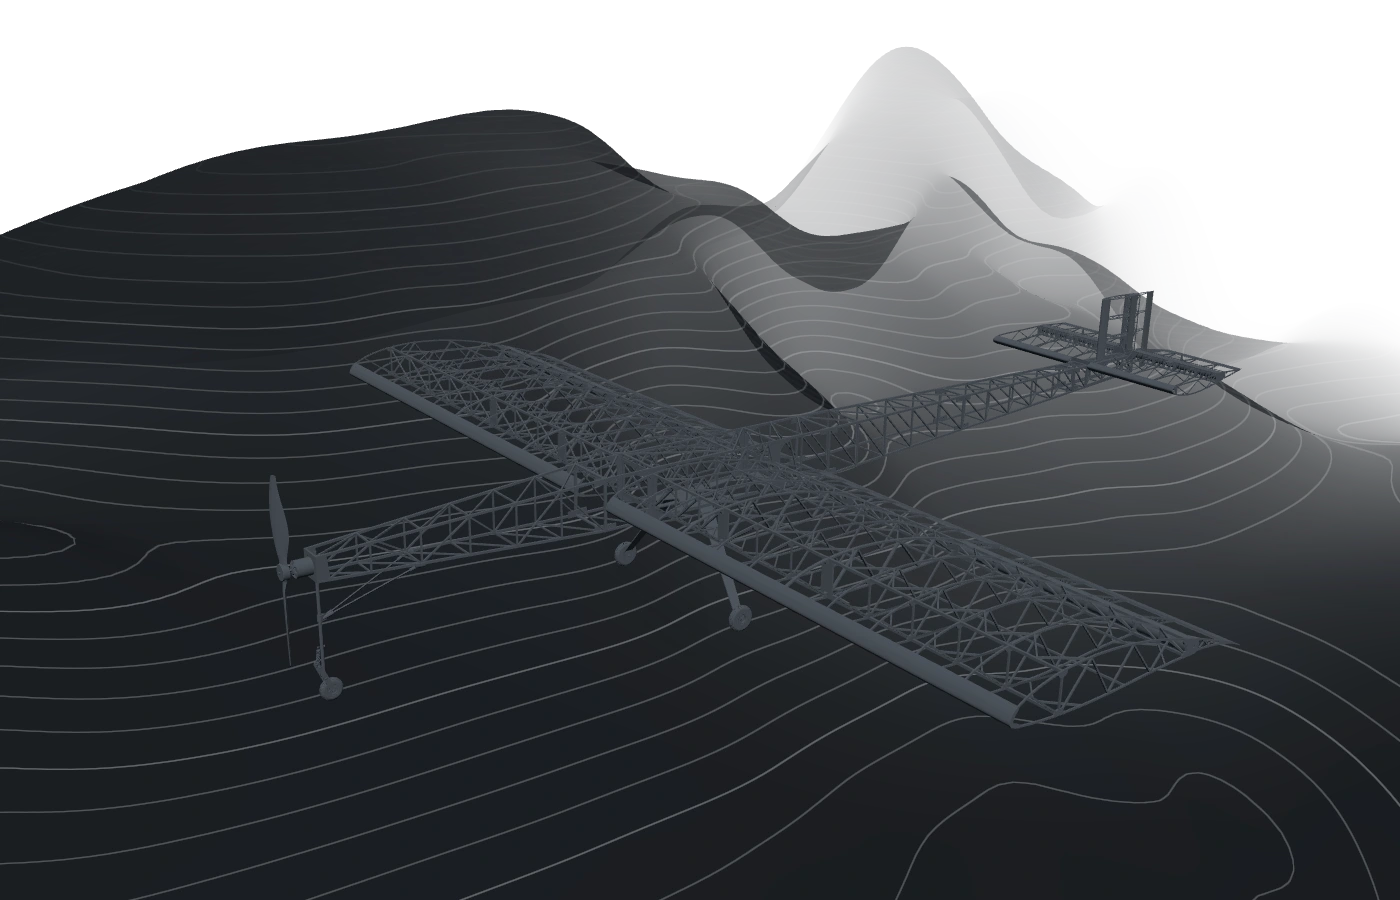
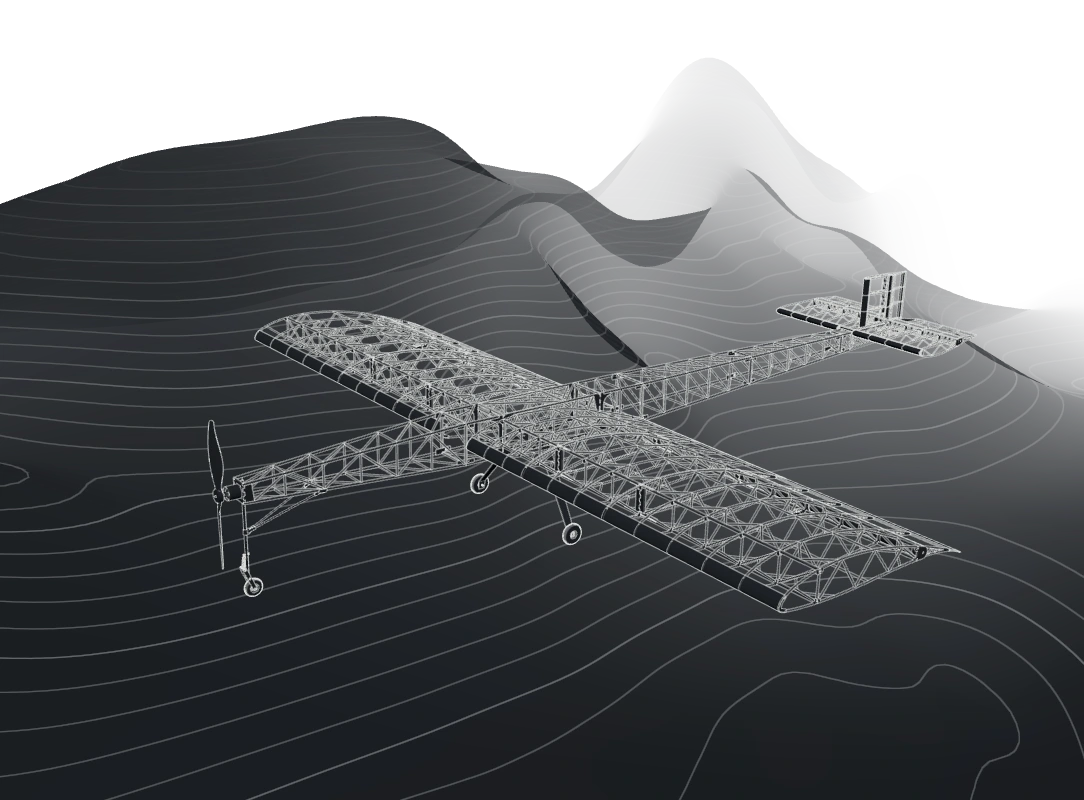
updated aircraft fallback

diff --git a/index.html b/index.html
@@ -224,7 +224,7 @@
           <p class="project-summary">A competition aircraft developed as part of Texas A&M SAE Aero Design, representing the design, manufacturing, and flight-testing work that shaped much of my hands-on experience in aircraft systems and engineering practice.</p>
           <p class="project-index">Chapters I–II · Pages 03–14</p>
         </div>
-        <div class="wyvern-viewport"><img class="wyvern-fallback" loading="eager" src="assets/landing/sae-aero-fallback.webp?v=20260923-04" alt="" decoding="async"><div class="wyvern-canvas"></div></div>
+        <div class="wyvern-viewport"><img class="wyvern-fallback" loading="eager" src="assets/landing/sae-aero-fallback.webp?v=20260923-05" alt="" decoding="async"><div class="wyvern-canvas"></div></div>
         <div class="scene-registration" aria-hidden="true">
           <p class="scene-note note-top-right"><span>Competition Aircraft</span><span>SolidWorks · SAE Aero</span></p>
           <p class="scene-note note-bottom-left"><span>Design · Build · Fly</span><span>Aircraft systems · Flight testing</span></p>

diff --git a/README.md b/README.md
@@ -216,11 +216,12 @@ Chrome and the development-only Playwright package:
 
 ```bash
 npm install --no-save --package-lock=false playwright
-node scripts/render-wyvern-fallback.cjs
+node scripts/render-aircraft-fallback.cjs
 ```
 
-This writes `assets/landing/wyvern-fallback.webp`, rendered by the same scene with
-motion disabled. Commit the mesh, metadata, fallback, and copied Alephon SVG.
+This writes `assets/landing/sae-aero-fallback.webp` from the actual desktop Home
+canvas, rendered by the same scene with motion disabled. Commit the mesh, metadata,
+fallback, and copied Alephon SVG.
 Deployment needs no Node/Python CAD processing and the existing Pages workflow is
 unchanged. All runtime URLs are relative or resolved relative to their ES module,
 including under `/engineering-portfolio/`.
